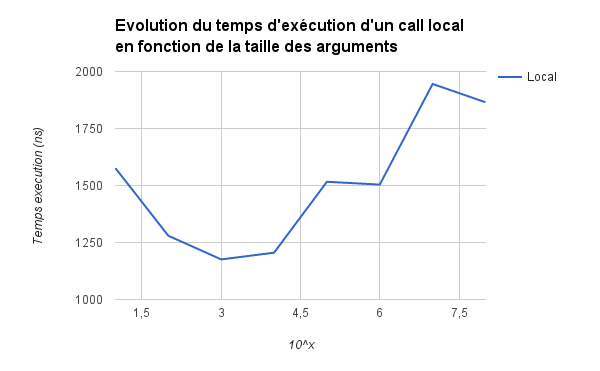
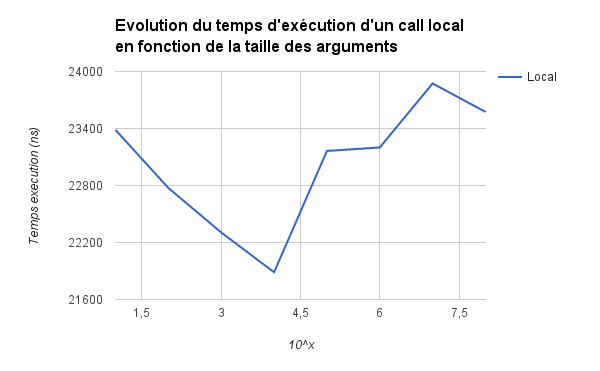
[Update] code for local call, local test, image

diff --git a/Partie1/src/ca/polymtl/inf4410/tp1/client/Client.java b/Partie1/src/ca/polymtl/inf4410/tp1/client/Client.java
@@ -9,26 +9,57 @@ import java.rmi.registry.Registry;
 import ca.polymtl.inf4410.tp1.shared.ServerInterface;
 
 public class Client {
-	public static void main(String[] args) {
-		String distantHostname = null;
-		Double powerOfTen = 0.;
 
-		if (args.length > 0) {
-			distantHostname = args[0];
-			powerOfTen = Double.parseDouble(args[1]);
-		}
+	private static final double POWER_OF_TEN = 10.;
+	private static final int INVALID_ARGUMENTS = -10;
 
-		Client client = new Client(distantHostname, new byte[(int)Math.pow(10., powerOfTen)]);
-		client.run();
-	}
-
-	FakeServer localServer = null; // Pour tester la latence d un appel de
-									// fonction normal.
+	private FakeServer localServer = null;
 	private ServerInterface localServerStub = null;
 	private ServerInterface distantServerStub = null;
 	private byte[] bytesArrayArgument = null;
 
-	/*public Client(String distantServerHostname) {
+	/**
+	 * Main client program, run the client
+	 * 
+	 * @param args
+	 *            args[0] must be the ip of the distant server and args[1] must
+	 *            be a number between 0 and 8. It represents the 10^x bytes
+	 *            which will be use to call the remote method to the server.
+	 */
+	public static void main(String[] args) {
+		String distantHostname = null;
+		Double powerOfTen = 0.;
+
+		if (args.length == 2) {
+			distantHostname = args[0];
+			powerOfTen = Double.parseDouble(args[1]);
+		} else {
+			System.err.println("Le programme a besoin de deux arguments :");
+			System.err
+					.println("L'IP du serveur distant et la puissance de 10 que vous souhaitez passe en argugment.");
+			System.err.println("Call: ./client [IP] [puissance_de_dix]");
+			System.exit(INVALID_ARGUMENTS);
+		}
+
+		// Quick check for the second argument
+		if (powerOfTen < 0) {
+			System.err.println("Le deuxieme argument doit être positif.");
+			System.exit(INVALID_ARGUMENTS);
+		}
+
+		// Creation of the custom client
+		Client client = new Client(distantHostname, new byte[(int) Math.pow(
+				POWER_OF_TEN, powerOfTen)]);
+		client.run();
+	}
+
+	/**
+	 * Constructor with
+	 * 
+	 * @param distantServerHostname
+	 *            : the IP of the distant server
+	 */
+	public Client(String distantServerHostname) {
 		super();
 
 		if (System.getSecurityManager() == null) {
@@ -41,8 +72,8 @@ public class Client {
 		if (distantServerHostname != null) {
 			distantServerStub = loadServerStub(distantServerHostname);
 		}
-	}*/
-	
+	}
+
 	public Client(String distantServerHostname, byte[] bytes) {
 		super();
 
@@ -60,14 +91,13 @@ public class Client {
 	}
 
 	private void run() {
-		for(int i = 0; i<10; i++)
-		{
+		for (int i = 0; i < 10; i++) {
 			appelNormal();
-				
+
 			if (localServerStub != null) {
 				appelRMILocal();
 			}
-	
+
 			if (distantServerStub != null) {
 				appelRMIDistant();
 			}
@@ -95,6 +125,7 @@ public class Client {
 	private void appelNormal() {
 		long start = System.nanoTime();
 		int result = localServer.execute(4, 7);
+		localServer.printByteArraySize(bytesArrayArgument);
 		long end = System.nanoTime();
 
 		System.out.println("Temps ecoule appel normal: " + (end - start)

diff --git a/Partie1/src/ca/polymtl/inf4410/tp1/client/FakeServer.java b/Partie1/src/ca/polymtl/inf4410/tp1/client/FakeServer.java
@@ -4,4 +4,9 @@ public class FakeServer {
 	int execute(int a, int b) {
 		return a + b;
 	}
+
+	public void printByteArraySize(byte[] bytes) {
+		System.out.println("Size of the array in parameter: " + bytes.length);
+		
+	}
 }
